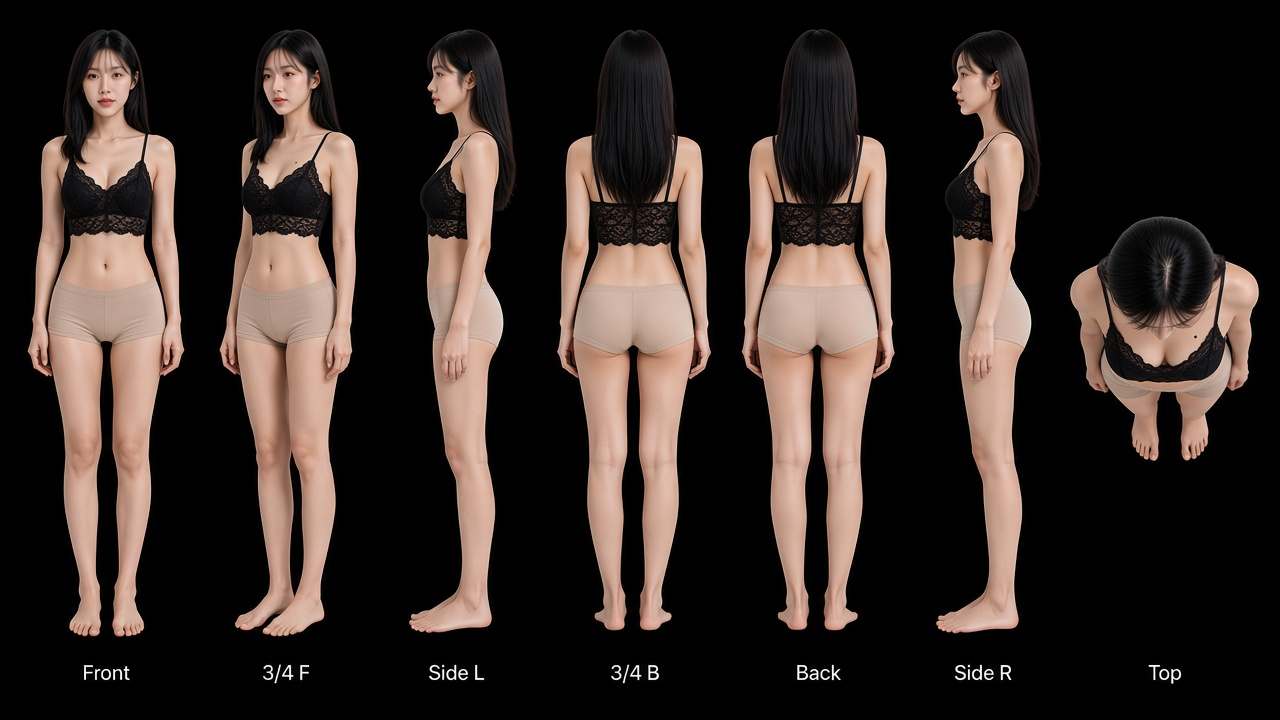
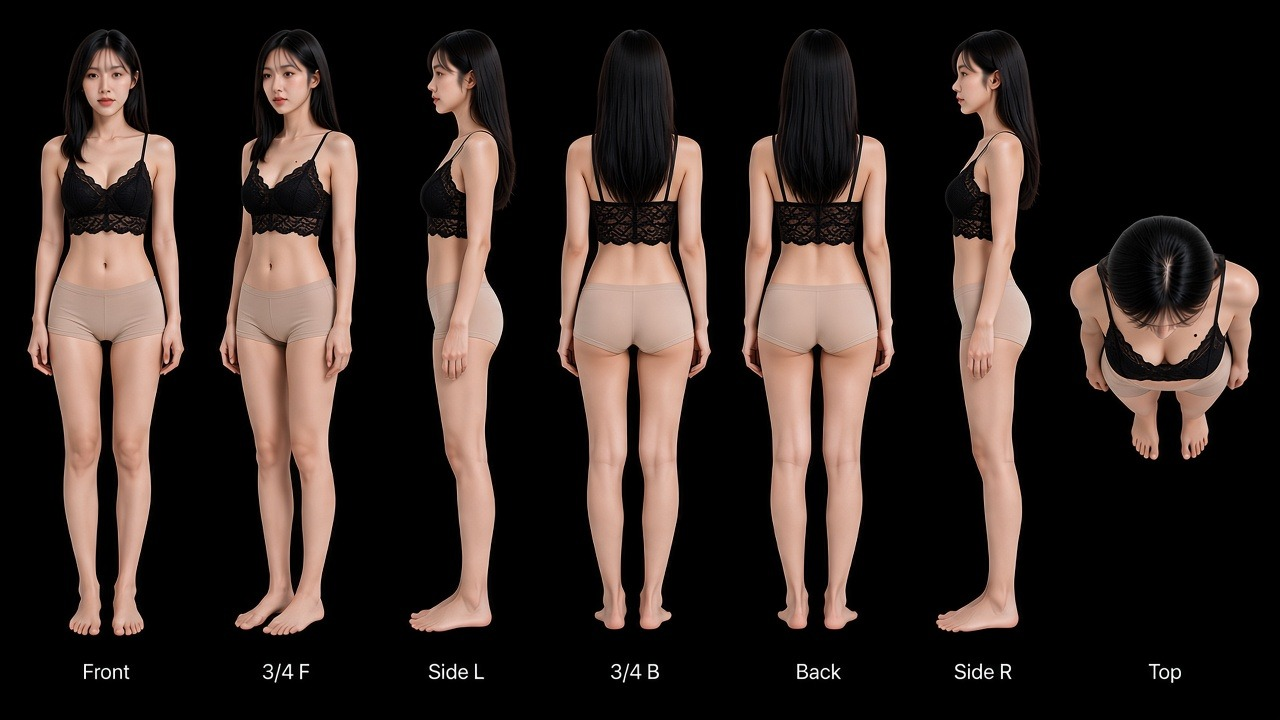
侃华锁定定妆 · 性感搭配下装 · preferred 67c56496（2026-11-04）
相对肉色内裤旧锁定：00/01 半身与七视更露（仍肉色内裤），02–07 七视改为各套搭配下装。look-01 preferred 与 host_look 重锁为 67c564964aa0c4535cc7ec11da6ec20f。

diff --git a/SKILL.md b/SKILL.md
@@ -17,7 +17,6 @@ description: 做「一天一个 GitHub」竖版口播（花花出镜）时用：
 
 | look-id | 服装 | 半身 | 七视 |
 |---------|------|------|------|
-| `look-00-body-base` | 黑蕾丝内衣换衣基准（不是裸体；七视下装肉色内裤） | `assets/looks/look-00-body-base/host_look.jpg` | `assets/looks/look-00-body-base/7view-sheet.jpg` |
 | `look-01-white-tank`（**默认**） | 白罗纹背心 | `host_look.jpg` | `7view-sheet.jpg` |
 | `look-02-black-turtleneck` | 黑高领 | 同上 | 同上 |
 | `look-03-street-chic` | 年轻街头：奶茶染发 + 标准白棒球衫 jersey（罗纹领口+排扣开襟短款） | 同上 | 同上 |
@@ -27,12 +26,12 @@ description: 做「一天一个 GitHub」竖版口播（花花出镜）时用：
 | `look-07-dress` | 日常优雅藕粉裙 + 半扎大波浪 | 同上 | 同上 |
 
 ### 硬锁
-**定妆已锁定（侃华 2026-11-04）**：本套半身 + 七视「非常好，固定」。锁脸/锁头胸对照 look-01：`host_look-user-preferred-20261104.jpg`（= 同目录 `host_look.jpg`，md5 `44385332ae3f6a7e6aff9ca423f92ee1`）。七视下装=肉色内裤；头大小/胸量对齐该 preferred。禁擅自改定妆；禁推仓除非项目总管放行。
+**定妆已锁定（侃华 2026-11-04）**：本套半身 + 七视「非常好，固定」。锁脸/锁头胸对照 look-01：`host_look-user-preferred-20261104.jpg`（须与同目录 `host_look.jpg` **md5 一致**）。七视下装按 look 搭配（00/01 肉色内裤更露；02 黑铅笔裙；03 牛仔热裤；04 深蓝西装短裤；05 黑缎微裙；06 黑高腰瑜伽裤；07 藕粉整裙）；头/胸对齐该 preferred。禁擅自改定妆；禁推仓除非项目总管放行。侃华 2026-11-04 晚更性感下装后 preferred 已重锁。
 
 1. **同一张花花脸**：禁换脸。现行 preferred：look-01 `host_look-user-preferred-20261104.jpg`（= `host_look.jpg`）。历史脸锁仍存 `host_look-canonical.jpg` / `host_ref-canonical.jpg`。
 2. **左胸小痣（观众右侧）**：凡露锁骨/胸口的半身与七视正视/3/4 **必须保留**，绝不能少。
 3. **半身统一模板**：每套只交付一张正视锁定图 `host_look.jpg`（头正直看镜头）；禁固定右歪头；勿再并存 natural 变体作交付；**头大小与胸量肉眼对齐 look-01 preferred**。
-4. **七视先于 H3**：新 look / 换装须先有 `7view-sheet.jpg`（16:9 黑底横排 Front|3/4 F|Side L|3/4 B|Back|Side R|Top，中性站姿；**下装=肉色内裤**，非瑜伽裤/黑短裤）再喂本机 H3。
+4. **七视先于 H3**：新 look / 换装须先有 `7view-sheet.jpg`（16:9 黑底横排 Front|3/4 F|Side L|3/4 B|Back|Side R|Top，中性站姿；**下装按各 look 表**；00/01 仍肉色内裤）再喂本机 H3。
 
 默认出画基准：`assets/looks/look-01-white-tank/host_look.jpg`（= preferred；路径可仍兼容旧名 vivi-zhuchi `host_look.jpg` 的用法：复制或软链到工程 assets）。
 

diff --git a/LOOKS_QA.md b/LOOKS_QA.md
@@ -1,0 +1,21 @@
+# 半身自检 · 胸痣+胸部+头胸比例+身瘦+构图（2026-11-04 侃华 · 性感下装批）
+
+**本批指令（侃华）**：七视下装更性感；00/01 上身更露一点；上身造型保持各 look 已定；禁推 GitHub。
+
+对照：`look-01-white-tank/host_look-user-preferred-20261104.jpg`（**md5 须与** `look-01-white-tank/host_look.jpg` **一致**）
+- 本批更露后 preferred **已重锁同步**：md5 `67c564964aa0c4535cc7ec11da6ec20f`（旧 preferred `44385332ae3f6a7e6aff9ca423f92ee1` 已归档 `*_archive/host_look-user-preferred-20261104-pre-sexybottoms-20261104-192834.jpg`）
+- 硬锁：脸锁 preferred；**头大小与胸量肉眼对齐 preferred**；露胸口必留左胸小痣（观众右）；腰肢 lean；腿更修长瘦；黑底七视 16:9 横排 Front|3/4 F|Side L|3/4 B|Back|Side R|Top。禁推 GitHub（等项目总管放行）。
+
+| look | host 路径 | 痣 | 头胸对齐 preferred | 胸未缩 | 身 lean / 腿更瘦 | 近景对标 | 七视下装（本批） | 备注 |
+|------|-----------|----|-------------------|--------|------------------|----------|------------------|------|
+| 00 | look-00-body-base/host_look.jpg | 观众右 | 是 | 是 | 是 | 是（半身已更露） | 黑蕾丝上装（更深V/更露腰腹/蕾丝更薄）+**肉色内裤** | 半身同步更露；禁全裸 |
+| 01 | look-01-white-tank/host_look.jpg | 观众右 | 是 | 是 | 是 | 是（半身已更露） | 白背心（领口更低/侧胸更露/更贴更短）+**肉色内裤** | **新 preferred 同源（本批更露后重锁）** |
+| 02 | look-02-black-turtleneck/host_look.jpg | 高领遮 | 是 | 是 | 是 | 是 | 黑高领+**黑色修身铅笔裙**（及膝偏上） | 上身保持 |
+| 03 | look-03-street-chic/host_look.jpg | 观众右 | 是 | 是 | 是 | 是 | 白棒球衫+**牛仔热裤**（高腰短） | 奶茶发；上身保持 |
+| 04 | look-04-blazer/host_look.jpg | 观众右 | 是 | 是 | 是 | 是 | 深蓝西装+浅内搭+**深蓝西装短裤** | 上身保持 |
+| 05 | look-05-sexy-evening/host_look.jpg | 观众右 | 是 | 是 | 是 | 是 | 黑缎吊带+**黑缎微裙**（同料迷你裙） | 上身保持 |
+| 06 | look-06-lululemon-yoga/host_look.jpg | 观众右 | 是 | 是 | 是 | 是 | 黑 crop+**黑色高腰瑜伽裤**（贴身显腿，无 logo） | 上身保持 |
+| 07 | look-07-dress/host_look.jpg | 观众右 | 是 | 是 | 是 | 是 | **藕粉连衣裙完整裙摆**（整裙/裹身连体读成，非内裤） | 半扎发；上身保持 |
+
+旧文件：各 look `_archive/`（含 `*-pre-sexybottoms-20261104-192834*`、旧 nudebriefs 批、旧 preferred）。
+Skill 本地已同步：`/home/box/agent-data/workflows/huahua-zhuchi-skill/assets/looks/<look>/`（**未 git push**）。

diff --git a/README.md b/README.md
@@ -12,8 +12,7 @@ Skill id：`huahua-zhuchi-skill`（https://github.com/huakan88/huahua-zhuchi-ski
 
 | 目录 | 说明 |
 |------|------|
-| `look-00-body-base/` | 黑蕾丝内衣换衣基准（不是裸体）；七视下装肉色内裤 |
-| `look-01-white-tank/` | **默认**。`host_look-user-preferred-20261104.jpg` = `host_look.jpg`（md5 `44385332ae3f6a7e6aff9ca423f92ee1`）；另含 `host_look-canonical.jpg` / `host_ref-canonical.jpg` 历史脸锁 |
+| `look-01-white-tank/` | 默认；另含 `host_look-canonical.jpg` / `host_ref-canonical.jpg` 历史脸锁 |
 | `look-02-black-turtleneck/` | 黑高领 |
 | `look-03-street-chic/` | 年轻街头（奶茶染发 + 标准白棒球衫 jersey） |
 | `look-04-blazer/` | 西装外套 |
@@ -21,11 +20,11 @@ Skill id：`huahua-zhuchi-skill`（https://github.com/huakan88/huahua-zhuchi-ski
 | `look-06-lululemon-yoga/` | 无 logo 贴身瑜伽套装（露腰 crop + 高腰裤） |
 | `look-07-dress/` | 日常优雅藕粉裙 + 半扎大波浪 |
 
-**硬锁（侃华 2026-11-04 已锁定）**：同一张脸，脸锁 preferred；左胸小痣（观众右）露胸口必留；头大小/胸量对齐 look-01 preferred；七视下装=肉色内裤；半身禁固定右歪头；七视先于本机 H3 真对口。
+**硬锁**：同一张脸；左胸小痣（观众右）露胸口必留；半身禁固定右歪头；七视先于 H3。
 
 ## 仓库内容
 - `SKILL.md` — 完整流程与硬规则
-- `assets/looks/` — look-00 换衣基准 + look-01～07 定妆（半身+七视）
+- `assets/looks/` — 七套定妆（半身+七视）
 - 本 README
 
 成片与中间产物不放本仓。其他 Agent 可直接 clone / 引用本仓 `assets/looks/<look>/host_look.jpg`。
